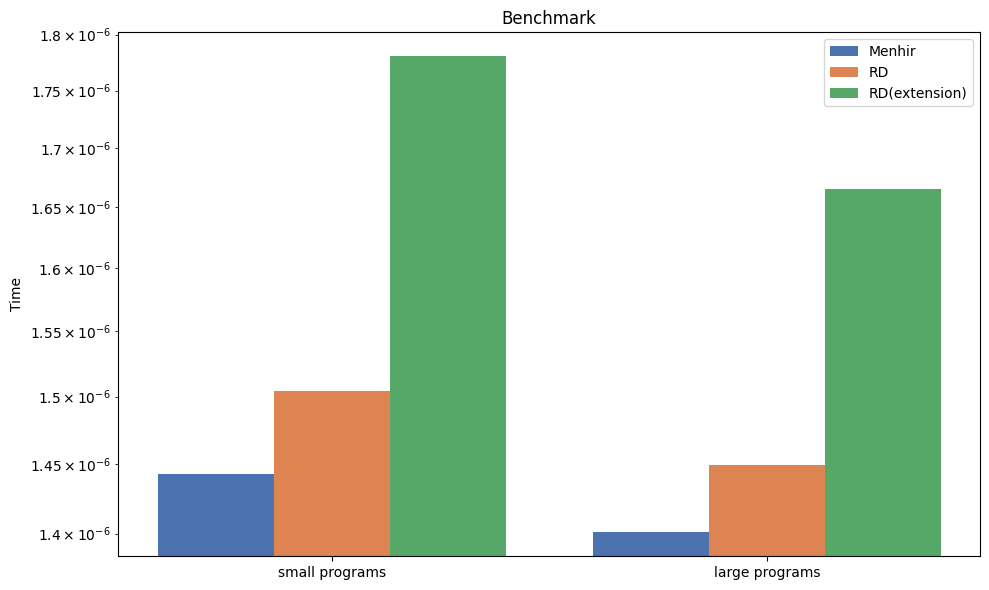
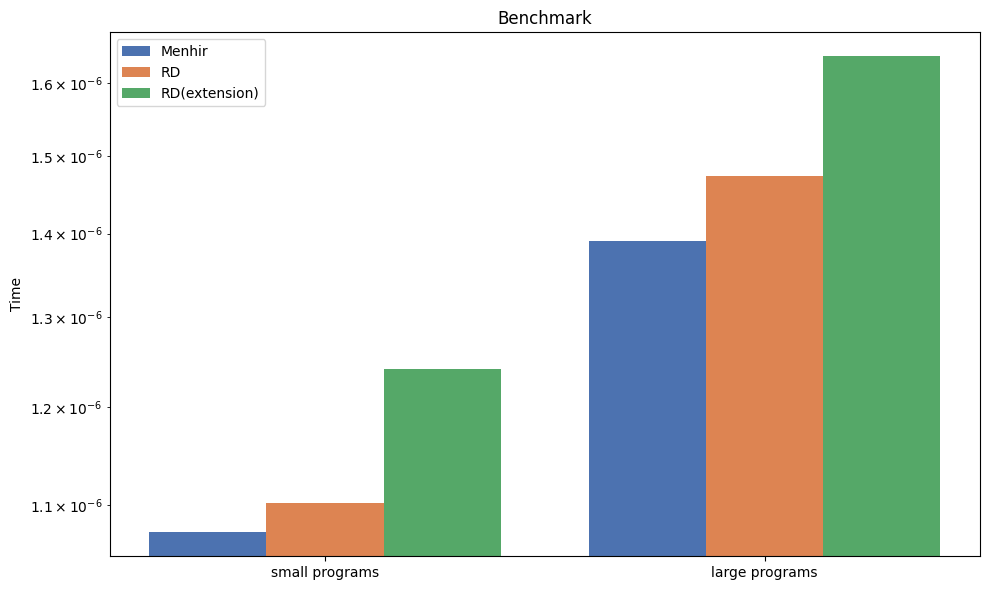
chore(benchmark): adjust tree height, update plot

diff --git a/vibecaml/benchmark/README.md b/vibecaml/benchmark/README.md
@@ -1,0 +1,17 @@
+### Бенмарк 
+
+##### [Код генератора](./generate.ml)
+##### [Код замеров](./main.ml)
+
+![image](./assets/results.png)
+
+На сгенерированных с помощью QCheck данных (см. _генератор_) 
+восходящий парсер быстрее обычного восходящего без включенных расширений 
+на 5-7 процетов на маленьких программах (высота AST в пределах 7)
+и на ~10 процентов на больших программах (высота AST в пределах 30),
+если зафиксировать высоту дерева, а не лишь верхнюю границу то результаты 
+будут больше различаться в пользу восходящего парсера.
+
+Если включить расширение `--ext-glued-keywords`, но оставить программы
+корректными для обоих парсеров, то производительность падает на 15 процентов
+относительно восходящего парсера.
